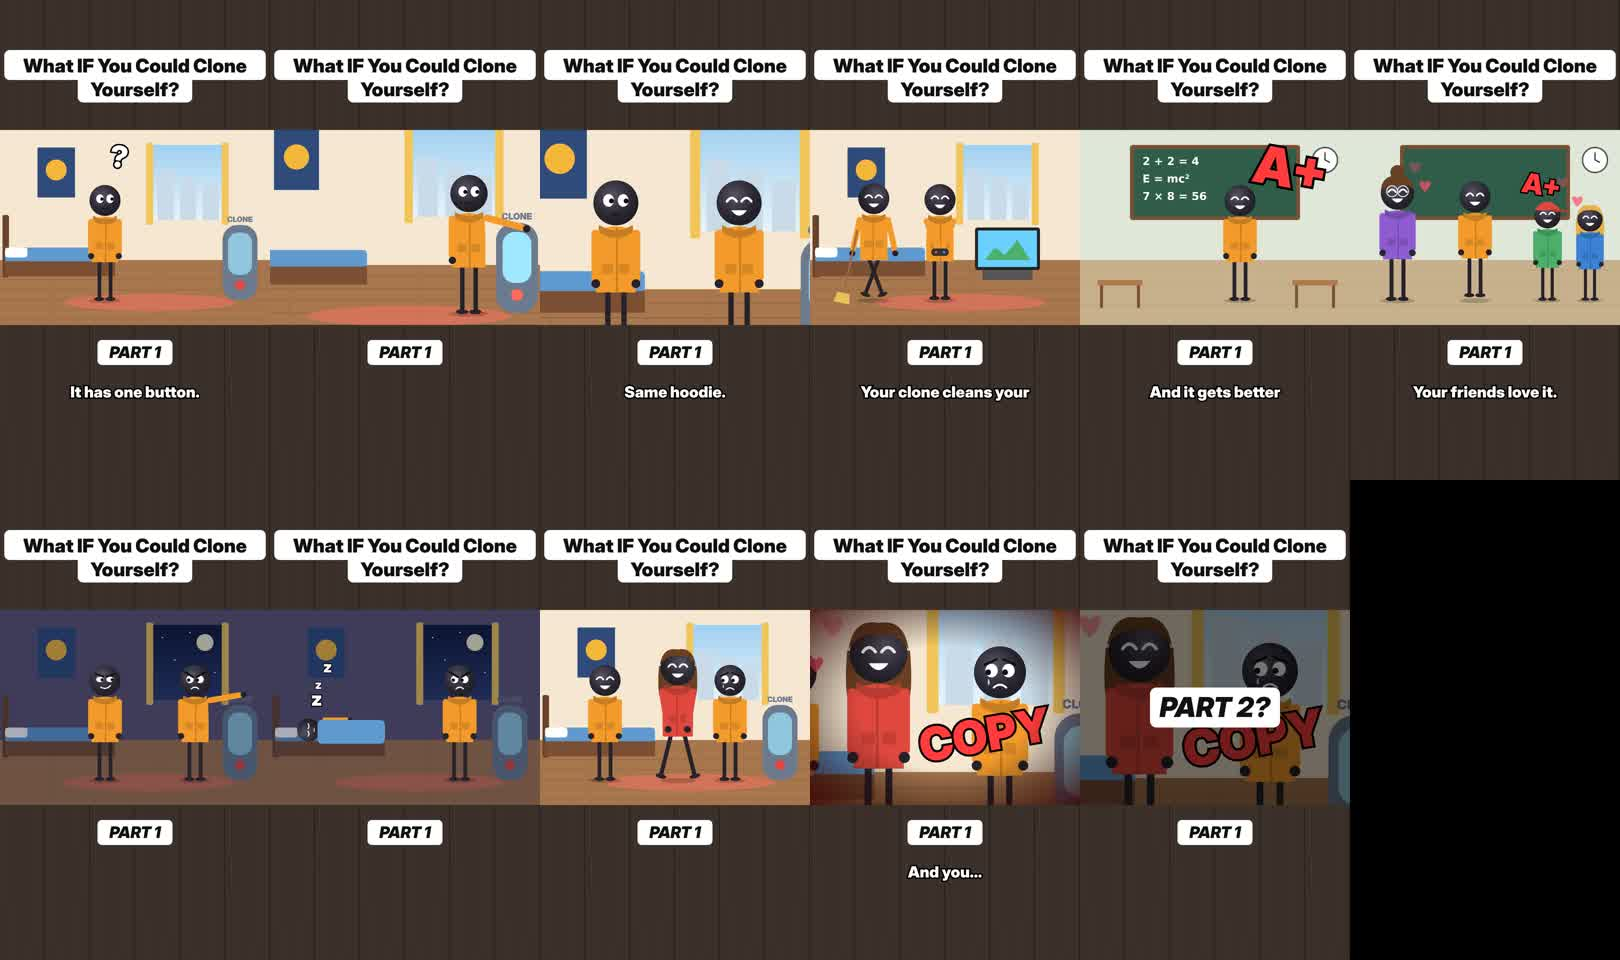
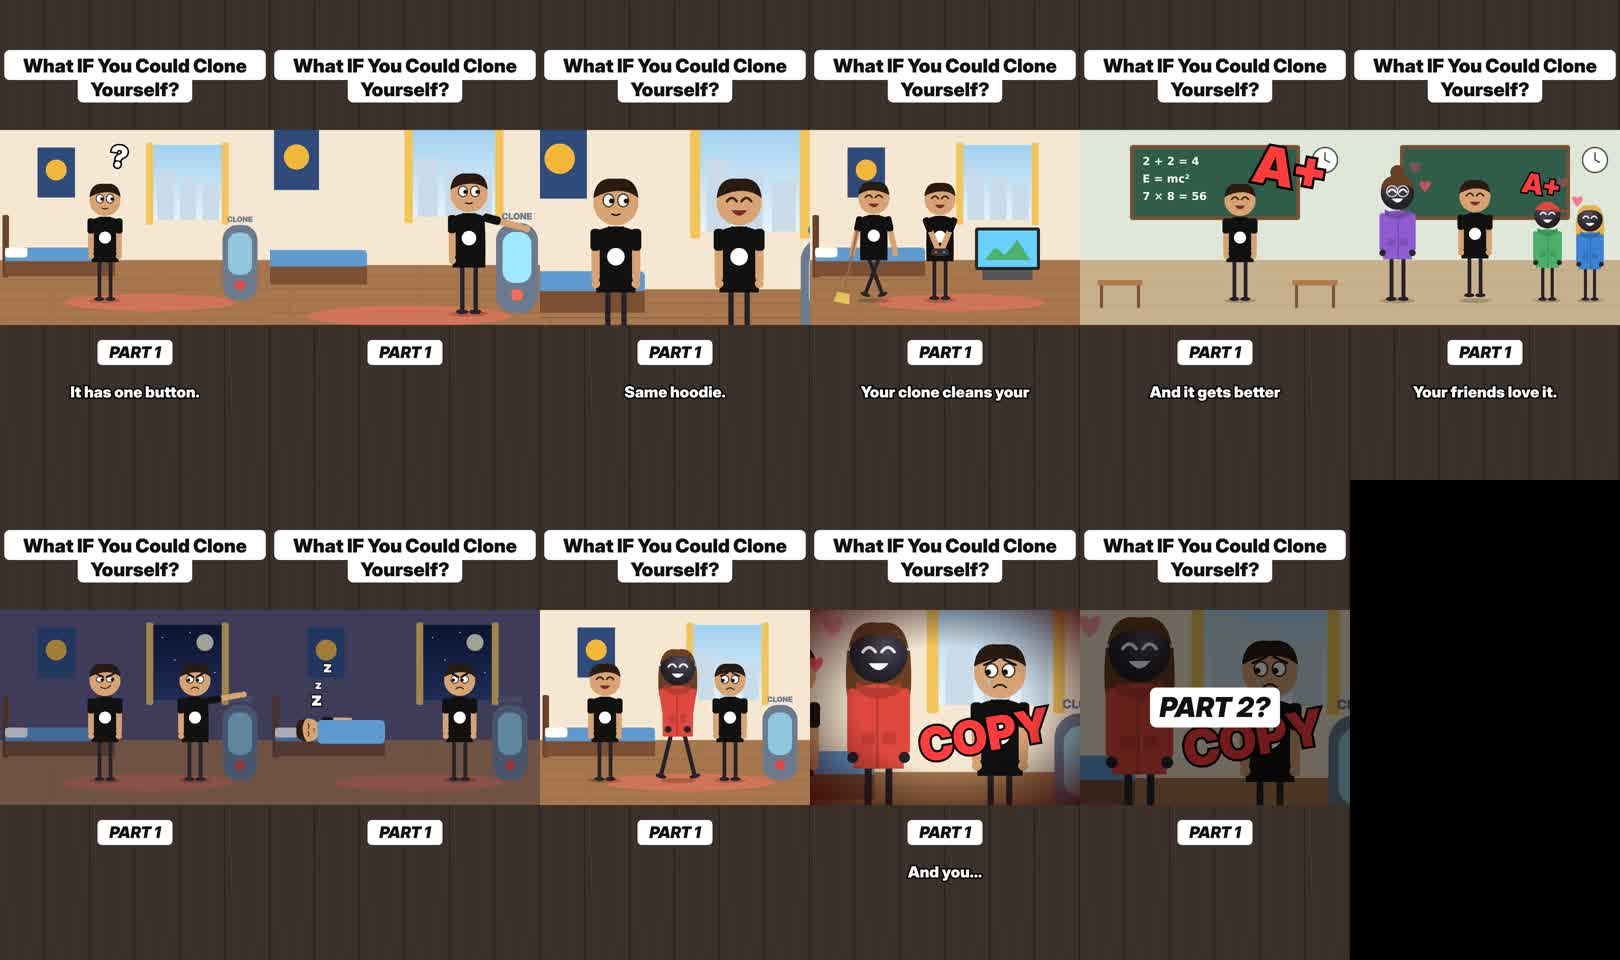
Vaste hoofdpersoon: hoofd 3 (getint) + t-shirt F; kloon-video en /cartoon gebruiken hem
Claude-Session: https://claude.ai/code/session_01BXyYFvSpexfWbg2ixwycHu

diff --git a/2026-10-20-clone-yourself/story.js b/2026-10-20-clone-yourself/story.js
@@ -9,8 +9,8 @@ function s9layout(t, d, T, momDone) {
   const momX = lerp(1250, 470, mk), walking = mk > 0 && mk < 1;
   const sad = momDone || t > d * 0.55;
   let g = bedroom() +
-    char({ x: 260, y: FLOOR, s: 1.35, col: YOU, expr: 'blij', blink: blinkAt(T, 1.3), look: 6 }) +
-    char({ x: 760, y: FLOOR, s: 1.35, col: YOU, expr: sad ? 'verdrietig' : 'normaal', blink: blinkAt(T), look: sad ? -6 : 6 }) +
+    char({ x: 260, y: FLOOR, s: 1.35, ...HOOFDPERSOON, expr: 'blij', blink: blinkAt(T, 1.3), look: 6 }) +
+    char({ x: 760, y: FLOOR, s: 1.35, ...HOOFDPERSOON, expr: sad ? 'verdrietig' : 'normaal', blink: blinkAt(T), look: sad ? -6 : 6 }) +
     char({ x: momX, y: FLOOR, s: 1.5, col: '#e0483e', hair: 'long', expr: 'blij', flip: true, walk: walking ? T * 8 : 0, blink: blinkAt(T, 2), look: -4 });
   if (!momDone && t < d * 0.5) g += bubble('Sweetie!', momX - 40, 140, clamp01(t * 4));
   if (mk >= 1) g += heart(360, 230 - (t % 1.2) * 60, 1.4, 1 - (t % 1.2) / 1.2) + heart(320, 280 - ((t + 0.6) % 1.2) * 60, 1, 1 - ((t + 0.6) % 1.2) / 1.2);
@@ -25,7 +25,7 @@ const STORY = {
   scenes: {
     s1(t, d, T) {
       const k = clamp01(t / 2.5);
-      let g = bedroom() + char({ x: lerp(-120, 420, k), y: FLOOR, s: 1.35, col: YOU, walk: k < 1 ? T * 9 : 0, blink: blinkAt(T), look: 6,
+      let g = bedroom() + char({ x: lerp(-120, 420, k), y: FLOOR, s: 1.35, ...HOOFDPERSOON, walk: k < 1 ? T * 9 : 0, blink: blinkAt(T), look: 6,
         expr: t > 3 ? 'normaal' : 'blij' });
       if (t > 3) g += word('?', 470, 150 - Math.sin(t * 3) * 6, 120, clamp01((t - 3) * 4), '#fff', 8);
       const z = lerp(1, 1.35, (t - d * 0.65) / (d * 0.3));
@@ -34,16 +34,16 @@ const STORY = {
     s2(t, d, T) {
       const k = clamp01(t / 0.9), press = t > 0.9 && t < 1.6;
       const light = t > 1 ? Math.abs(Math.sin((t - 1) * 8)) : 0;
-      return zoom(1.2, 820, 420, bedroom({ light }) + char({ x: lerp(420, 800, k), y: FLOOR, s: 1.35, col: YOU, walk: k < 1 ? T * 9 : 0,
+      return zoom(1.2, 820, 420, bedroom({ light }) + char({ x: lerp(420, 800, k), y: FLOOR, s: 1.35, ...HOOFDPERSOON, walk: k < 1 ? T * 9 : 0,
         blink: blinkAt(T), look: 6, armR: press ? -75 : 0, expr: t > 1.6 ? 'bang' : 'normaal' }));
     },
     s3(t, d, T) {
       const pk = clamp01(t / 0.35), pop = pk < 1 ? 0.3 + 0.75 * Math.sin(pk * Math.PI / 2) : 1;
       const scared = t < 1.4;
       let g = bedroom() +
-        char({ x: 380, y: FLOOR, s: 1.35, col: YOU, expr: scared ? 'bang' : 'normaal', blink: blinkAt(T), look: 6,
+        char({ x: 380, y: FLOOR, s: 1.35, ...HOOFDPERSOON, expr: scared ? 'bang' : 'normaal', blink: blinkAt(T), look: 6,
           hop: scared ? Math.max(0, Math.sin(t * Math.PI / 0.6)) * 50 : 0, shake: scared ? Math.sin(t * 90) * 6 : 0 }) +
-        char({ x: 720, y: FLOOR, s: 1.35, col: YOU, pop, expr: t > 2.5 ? 'blij' : 'normaal', blink: blinkAt(T, 1.3), look: -6 });
+        char({ x: 720, y: FLOOR, s: 1.35, ...HOOFDPERSOON, pop, expr: t > 2.5 ? 'blij' : 'normaal', blink: blinkAt(T, 1.3), look: -6 });
       g += flash(t, 720, 400);
       if (t < 1.4) g += word('POOF!', 720, 160, 120, clamp01(t / 0.25));
       const z = lerp(1, 1.45, (t - 2.5) / 2.5);
@@ -52,13 +52,13 @@ const STORY = {
     s4(t, d, T) {
       const sweep = Math.sin(t * 2.2);
       return bedroom({ tv: true, machineAt: 0 }) +
-        char({ x: 230 + sweep * 70, y: FLOOR, s: 1.35, col: YOU, expr: 'blij', hold: 'broom', walk: T * 7, blink: blinkAt(T, 1.3), look: sweep > 0 ? 6 : -6, flip: Math.cos(t * 2.2) < 0 }) +
-        char({ x: 520, y: FLOOR, s: 1.35, col: YOU, expr: 'blij', hold: 'controller', blink: blinkAt(T), look: 6, hop: Math.abs(Math.sin(t * 6)) * 6 });
+        char({ x: 230 + sweep * 70, y: FLOOR, s: 1.35, ...HOOFDPERSOON, expr: 'blij', hold: 'broom', walk: T * 7, blink: blinkAt(T, 1.3), look: sweep > 0 ? 6 : -6, flip: Math.cos(t * 2.2) < 0 }) +
+        char({ x: 520, y: FLOOR, s: 1.35, ...HOOFDPERSOON, expr: 'blij', hold: 'controller', blink: blinkAt(T), look: 6, hop: Math.abs(Math.sin(t * 6)) * 6 });
     },
     s5(t, d, T) {
       const chalk = (txt, x, y, k) => `<text x="${x}" y="${y}" font-family="DejaVu Sans" font-weight="700" font-size="44" fill="#fff" opacity="${k}">${txt}</text>`;
       const board = chalk('2 + 2 = 4', 250, 140, clamp01(t - 0.3)) + chalk('E = mc²', 250, 210, clamp01(t - 1.2)) + chalk('7 × 8 = 56', 250, 280, clamp01(t - 2.1));
-      let g = classroom(board) + char({ x: 640, y: FLOOR, s: 1.35, col: YOU, expr: t > d * 0.45 ? 'blij' : 'normaal', blink: blinkAt(T, 1.3), look: -6,
+      let g = classroom(board) + char({ x: 640, y: FLOOR, s: 1.35, ...HOOFDPERSOON, expr: t > d * 0.45 ? 'blij' : 'normaal', blink: blinkAt(T, 1.3), look: -6,
         armL: t < d * 0.45 ? 140 + Math.sin(t * 12) * 8 : 0 }) + desk(160) + desk(940);
       if (t > d * 0.45) g += word('A+', 830, 230, 190, Math.min(1.1, clamp01((t - d * 0.45) / 0.2) * 1.1), '#ff3b3b', 10);
       return g;
@@ -66,7 +66,7 @@ const STORY = {
     s6(t, d, T) {
       let g = classroom(word('A+', 760, 260, 110, 1, '#ff3b3b', 10)) +
         char({ x: 190, y: FLOOR, s: 1.45, col: '#8e5bd1', hair: 'bun', glasses: true, expr: 'blij', blink: blinkAt(T, 0.7), look: 6 }) +
-        char({ x: 500, y: FLOOR, s: 1.35, col: YOU, expr: 'blij', hop: Math.abs(Math.sin(t * 4)) * 20, blink: blinkAt(T, 1.3) }) +
+        char({ x: 500, y: FLOOR, s: 1.35, ...HOOFDPERSOON, expr: 'blij', hop: Math.abs(Math.sin(t * 4)) * 20, blink: blinkAt(T, 1.3) }) +
         char({ x: 790, y: FLOOR, s: 1.15, col: '#4caf6a', cap: '#e0483e', expr: 'blij', blink: blinkAt(T, 2.1), look: -6 }) +
         char({ x: 960, y: FLOOR, s: 1.1, col: '#3b82d6', hair: 'long', hairCol: '#e8b04a', expr: 'blij', blink: blinkAt(T, 0.3), look: -6 });
       for (let i = 0; i < 3; i++) { const p = (t * 0.8 + i / 3) % 1; g += heart(260 + i * 20, 300 - p * 220, 1.3, 1 - p); }
@@ -76,17 +76,17 @@ const STORY = {
     s7(t, d, T) {
       const k = clamp01(t / 2.6), turn = t > d * 0.5;
       return bedroom({ night: true }) +
-        char({ x: 780, y: FLOOR, s: 1.35, col: YOU, expr: turn ? 'boos' : 'normaal', blink: blinkAt(T), look: -6, armR: turn ? -100 : 0 }) +
-        char({ x: lerp(-120, 420, k), y: FLOOR, s: 1.35, col: YOU, walk: k < 1 ? T * 9 : 0, expr: turn ? 'stiekem' : 'normaal', blink: blinkAt(T, 1.3),
+        char({ x: 780, y: FLOOR, s: 1.35, ...HOOFDPERSOON, expr: turn ? 'boos' : 'normaal', blink: blinkAt(T), look: -6, armR: turn ? -100 : 0 }) +
+        char({ x: lerp(-120, 420, k), y: FLOOR, s: 1.35, ...HOOFDPERSOON, walk: k < 1 ? T * 9 : 0, expr: turn ? 'stiekem' : 'normaal', blink: blinkAt(T, 1.3),
           look: turn ? Math.sin(t * 6) * 6 : 6 });
     },
     s8(t, d, T) {
       const z = (i) => { const p = (t * 0.6 + i / 3) % 1; return word('z', 160 + p * 80 + i * 10, 400 - p * 200, 50 + i * 15, 1, '#fff', 0).replace('opacity', 'x') + ''; };
       return bedroom({ night: true }) +
-        char({ x: 450, y: 480, s: 1.0, col: YOU, expr: 'slaap', lie: -90 }) +
+        char({ x: 450, y: 480, s: 1.0, ...HOOFDPERSOON, expr: 'slaap', lie: -90 }) +
         `<rect x="190" y="440" width="270" height="95" rx="18" fill="#5f9ad1"/>` +
         z(0) + z(1) + z(2) +
-        char({ x: 760, y: FLOOR, s: 1.35, col: YOU, expr: t > d * 0.5 ? 'boos' : 'bang', blink: blinkAt(T), look: -6, shake: t > d * 0.5 ? Math.sin(t * 60) * 3 : 0 });
+        char({ x: 760, y: FLOOR, s: 1.35, ...HOOFDPERSOON, expr: t > d * 0.5 ? 'boos' : 'bang', blink: blinkAt(T), look: -6, shake: t > d * 0.5 ? Math.sin(t * 60) * 3 : 0 });
     },
     s9(t, d, T) { return s9layout(t, d, T, false); },
     s10(t, d, T) {

diff --git a/tools/cartoon/cartoon.js b/tools/cartoon/cartoon.js
@@ -94,6 +94,8 @@ const DEFS = `<defs><radialGradient id="hg" cx="40%" cy="35%" r="70%"><stop offs
 
 // Plekken: tekening van 1080 x 780, vloer vanaf y 520, poppetjes staan op y ≈ 680.
 const FLOOR = 680;
+// Vaste hoofdpersoon (keuze eigenaar 21 okt 2026: hoofd 3 'getint' + shirt F 't-shirt'). Gebruik: char({ ...HOOFDPERSOON, x, y, ... })
+const HOOFDPERSOON = { skin: '#d9a273', hair: 'kort', hairCol: '#2a1b12', top: 'tshirt', col: '#111111', top2: '#ffffff' };
 function machine(x, light = 0) {
   return `<g transform="translate(${x},380)"><rect x="-70" y="0" width="140" height="300" rx="60" fill="#6b7a8f"/><rect x="-48" y="30" width="96" height="170" rx="40" fill="#9fe8ff" opacity="${0.7 + 0.3 * light}"/>
   <circle cx="0" cy="240" r="20" fill="${light > 0.5 ? '#ff6a5a' : '#e0483e'}"/>${light ? `<circle cx="0" cy="240" r="${20 + 30 * light}" fill="#ff6a5a" opacity="${0.4 * (1 - light)}"/>` : ''}

diff --git a/.opencode/command/cartoon.md b/.opencode/command/cartoon.md
@@ -15,6 +15,7 @@ Lees eerst `tools/cartoon/README.md` en het voorbeeld `2026-10-20-clone-yourself
 3. `story.js`: kopieer de OPBOUW van het voorbeeld (niet de scènes). Gebruik alleen functies uit `tools/cartoon/cartoon.js`
    (`char`, `bedroom`, `classroom`, `desk`, `machine`, `heart`, `word`, `bubble`, `zoom`-hulpje uit het voorbeeld, `lerp`,
    `clamp01`, `blinkAt`, `FLOOR`). Elke `{img:sN}` heeft precies één functie `sN(t, d, T)` in `STORY.scenes`.
+   De hoofdpersoon ("you", ook de kloon) is ALTIJD `char({ ...HOOFDPERSOON, x, y, ... })` (vaste keuze eigenaar).
    Wat de stem in een scène noemt, moet in die scène te zien zijn. Pas `title` aan (2 regels, elk ≤ 24 tekens).
    Nodig je een plek die er niet is (straat, bos, ruimte …)? Voeg in story.js een eigen functie toe in dezelfde platte stijl
    (rechthoeken/cirkels, 1080 x 780, vloer vanaf y 520, poppetjes op `FLOOR`).
